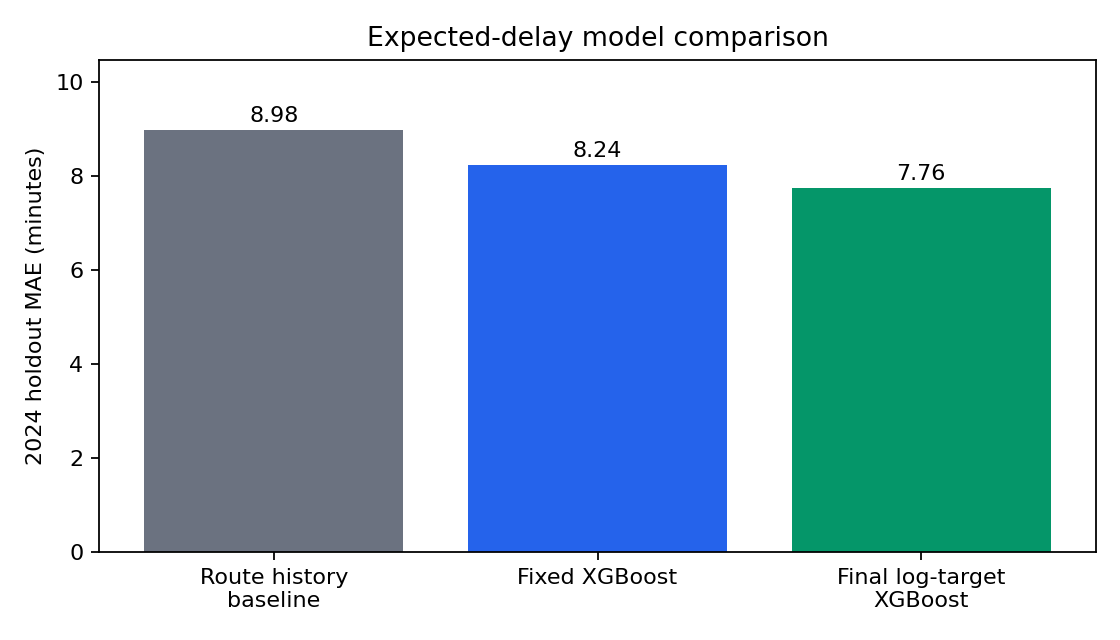
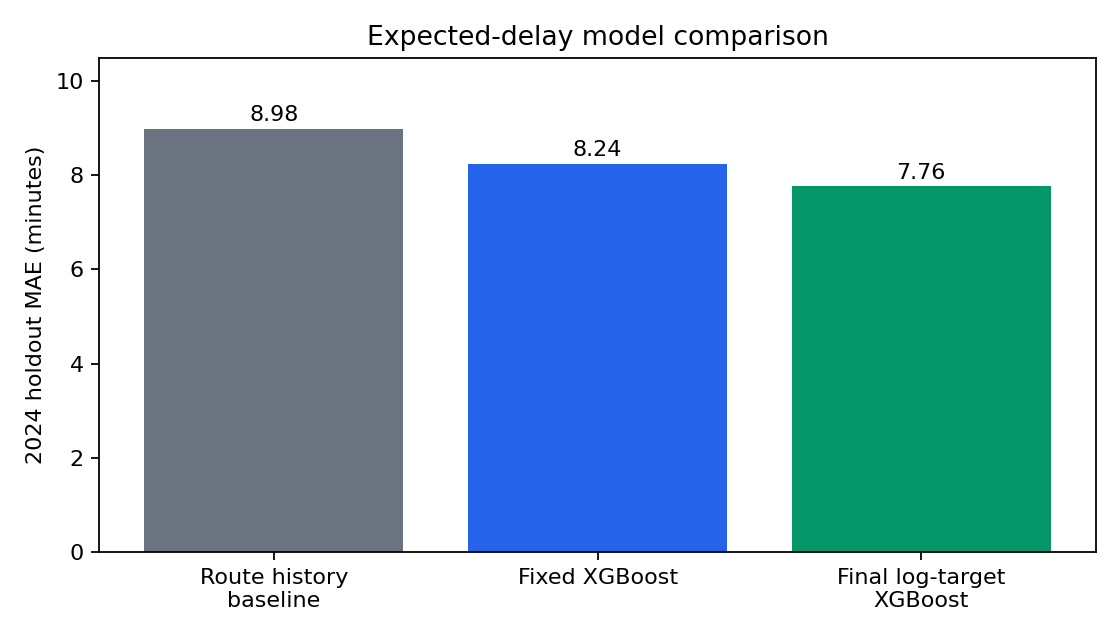
Polish README for portfolio: add figures and demo screenshot, drop resume section, move AGENTS.md to docs/dev

diff --git a/README.md b/README.md
@@ -27,6 +27,10 @@ Final metrics are from chronological holdout evaluation with train `2014-2022`, 
 
 ## Figures and Demo
 
+### Results Figures
+
+![Calibration curve for the 30+ minute severe-delay model on the 2024 test set](docs/images/calibration_curve_30plus_test.png)
+
 ### Performance Figures
 
 Generated public figures can be recreated from local report outputs:
@@ -39,9 +43,11 @@ python3 -m src.analysis.create_public_figures
 
 ![Severe-delay metrics](docs/images/severe_delay_metrics.png)
 
-### Frontend Screenshots
+### Local Demo
 
-Frontend screenshots can be added under `docs/images/` after running the local demo. No fabricated screenshots are included.
+Screenshot of the local frontend after one prediction (bus route 29, 2024-02-03 08:30, Mechanical incident):
+
+![Local demo after one prediction](docs/images/demo.png)
 
 ## Problem
 
@@ -197,9 +203,3 @@ Convenience `make` targets are also available; see [Makefile](Makefile).
 - Weather enrichment is not implemented.
 - Location matching is approximate assistance based on normalized text and optional local GTFS route-stop validation; it is not geocoding.
 - The model should not be used for operational decisions without validation on live data and a deployment-grade monitoring plan.
-
-## Resume-Ready Highlights
-
-- Built a reproducible leakage-aware ML pipeline with chronological evaluation, prior-only historical features, and validation-only model selection.
-- Improved 2024 holdout MAE from an 8.98 minute route-history baseline to 7.76 minutes with a log-target XGBoost regressor.
-- Added calibrated `30+` and `60+` minute severe-delay probabilities behind a local FastAPI demo that computes historical features automatically from prior records.
